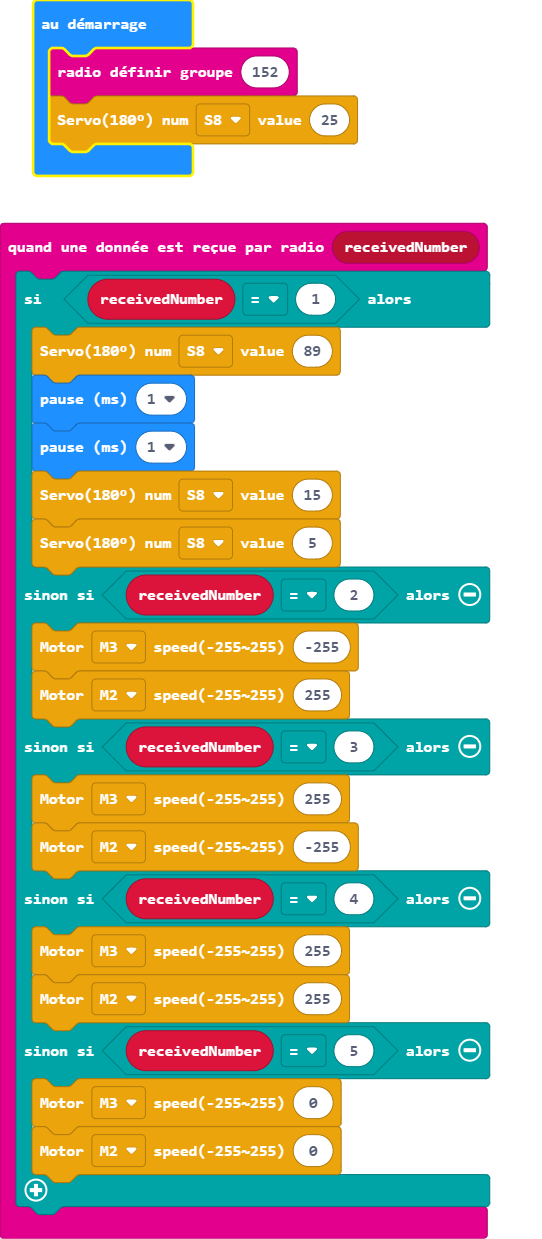
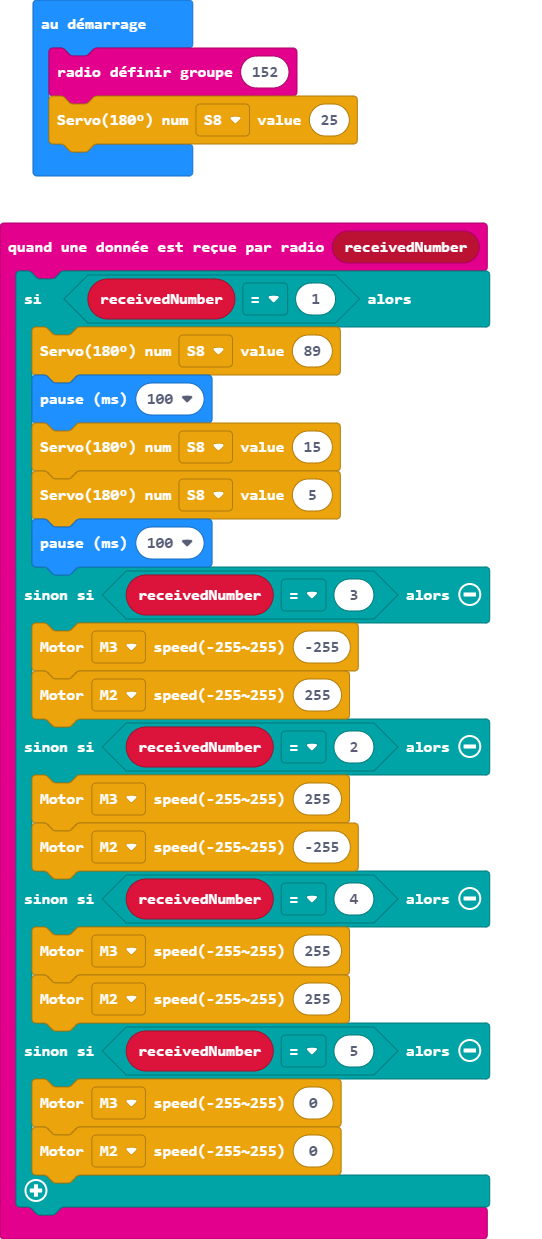
Mise à jour main.blocks, main.ts

diff --git a/main.ts b/main.ts
@@ -1,14 +1,14 @@
 radio.onReceivedNumber(function (receivedNumber) {
     if (receivedNumber == 1) {
         SuperBit.Servo(SuperBit.enServo.S8, 89)
-        basic.pause(1)
-        basic.pause(1)
+        basic.pause(100)
         SuperBit.Servo(SuperBit.enServo.S8, 15)
         SuperBit.Servo(SuperBit.enServo.S8, 5)
-    } else if (receivedNumber == 2) {
+        basic.pause(100)
+    } else if (receivedNumber == 3) {
         SuperBit.MotorRun(SuperBit.enMotors.M3, -255)
         SuperBit.MotorRun(SuperBit.enMotors.M2, 255)
-    } else if (receivedNumber == 3) {
+    } else if (receivedNumber == 2) {
         SuperBit.MotorRun(SuperBit.enMotors.M3, 255)
         SuperBit.MotorRun(SuperBit.enMotors.M2, -255)
     } else if (receivedNumber == 4) {
